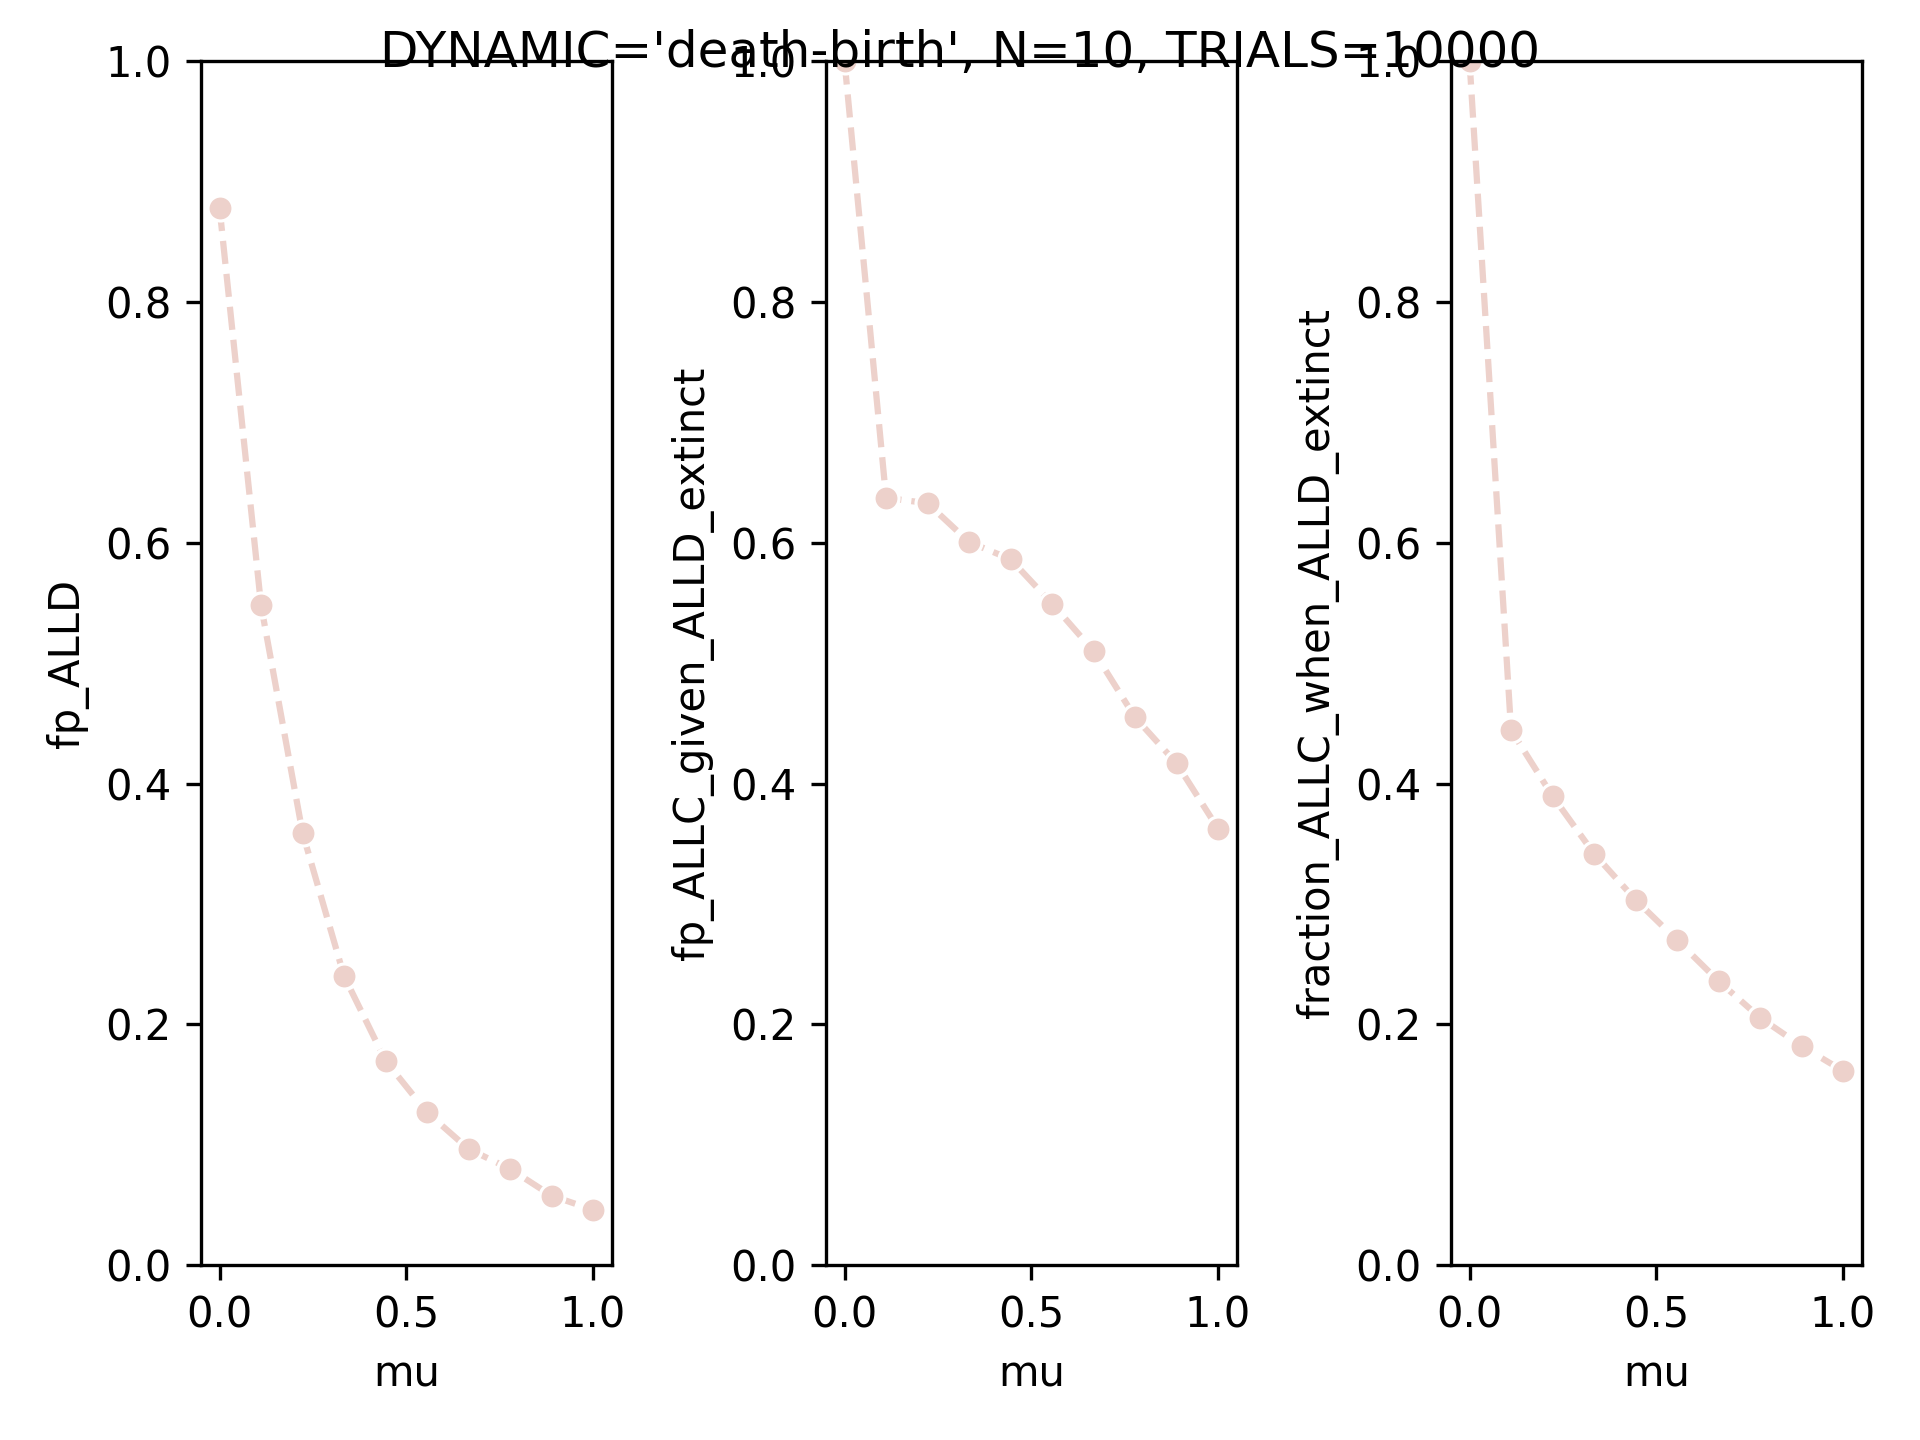
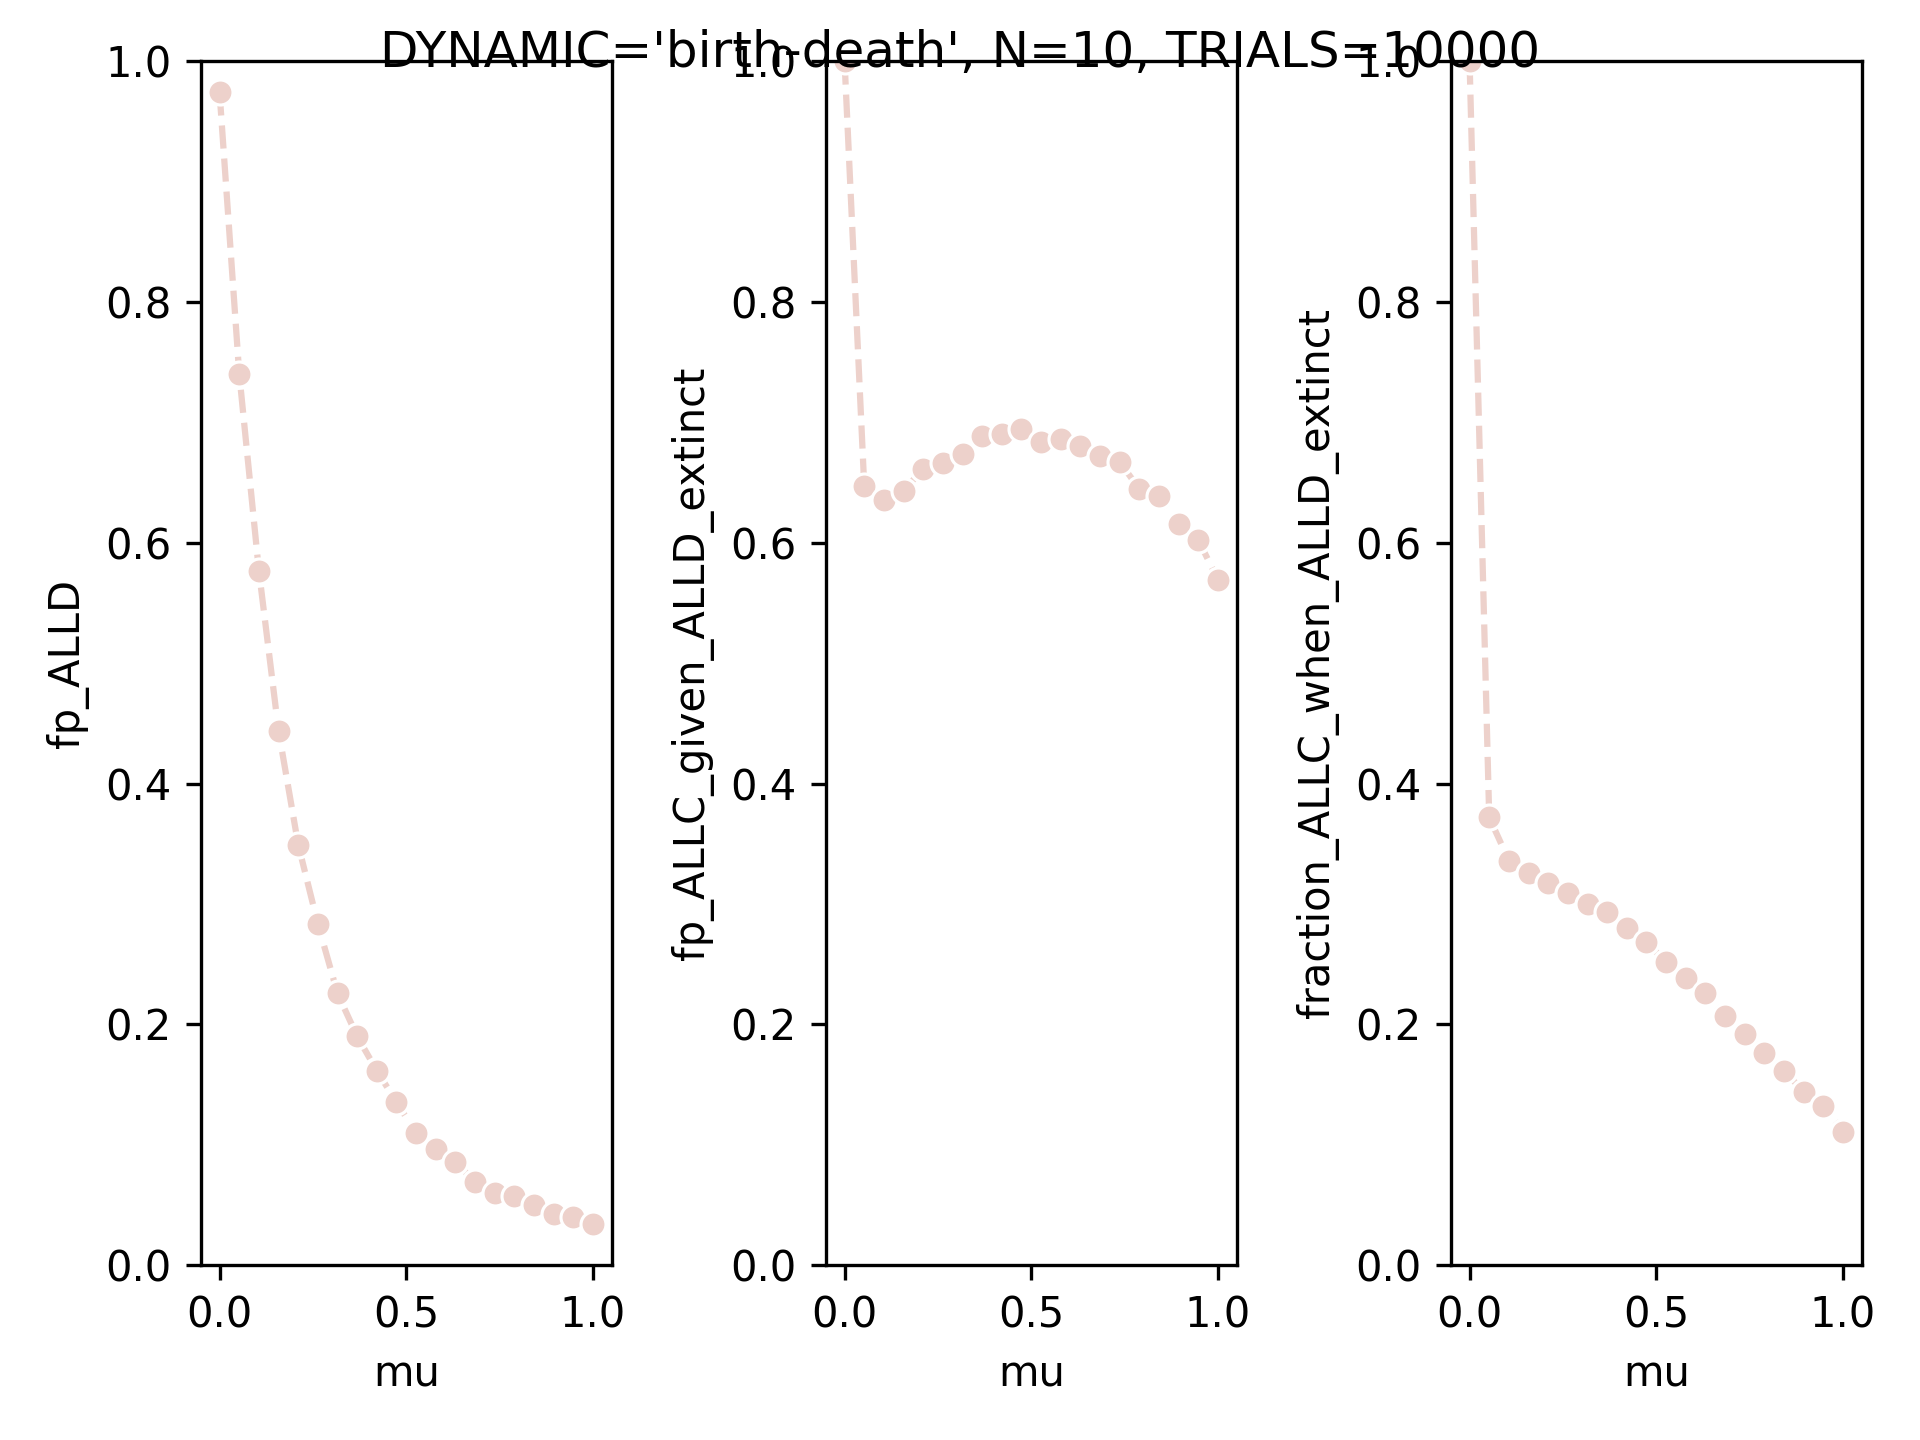
made changes

diff --git a/martins-dream.py b/martins-dream.py
@@ -193,17 +193,22 @@ def simulate(N: int, TRIALS: int, dynamics, mu: float, back_mu: float):
   fixated_ALLD = []
   fixated_ALLC_given_ALLD_extinct = []
   fractions_ALLC_when_ALLD_extinction = []
-  for _ in range(TRIALS):
+  for trial in range(TRIALS):
     nALLC = N-1
     nTFT = 0
     nALLD = 1
     tracked_ALLD_extinction = False
+    # print(f'trial #{trial}:')
     while all(nX < N for nX in (nALLC, nTFT, nALLD)):
+      # print(f'{nALLC=}, {nTFT=}, {nALLD=}')
+      # input()
       nALLCp, nTFTp = dynamics(N, nALLC, nTFT, M, mu=mu, back_mu=back_mu)
       nALLC, nTFT, nALLD = (nALLCp, nTFTp, N-(nALLCp + nTFTp))
       if nALLD == 0 and not tracked_ALLD_extinction:
         fractions_ALLC_when_ALLD_extinction.append(nALLC / N)
         tracked_ALLD_extinction = True
+    # print(f'{nALLC=}, {nTFT=}, {nALLD=}')
+    # input()
 
     fixated_ALLD.append(nALLD == N)
     if nALLD == 0:
@@ -226,29 +231,51 @@ DYNAMICS = {
 
 
 import itertools
+INTERVALS = 20
+TRIALS = 10000
+NUM_WORKERS = 8
+DYNAMIC = 'birth-death'
+N = 10
 
-def main():
-  INTERVALS = 10
-  TRIALS = 10000
-  NUM_WORKERS = 8
-  DYNAMIC = 'death-birth'
+def collect_data():
   data = []
-  TICKS = np.linspace(0, 1, INTERVALS, endpoint=True) 
+  TICKS = np.linspace(0, 1, INTERVALS, endpoint=True)
   TICK_LABELS = [('0' if tick == 0 else '1' if tick == 1 else '') for tick in TICKS]
-  for N in (10,):
-    mus = TICKS
-    # back_mus = TICKS
-    mutations = [(mu, 0) for mu in mus]
-    # mutations = list(itertools.product(mus, back_mus))
-    print(mutations)
+  mus = TICKS
+  # back_mus = TICKS
+  mutations = [(mu, 0) for mu in mus]
+  # mutations = list(itertools.product(mus, back_mus))
+  # print(mutations)
+  if NUM_WORKERS > 1:
     with Pool(NUM_WORKERS) as p:
       for datum in p.starmap(functools.partial(simulate, N, TRIALS, DYNAMICS[DYNAMIC]), mutations):
         data.append(datum)
+  else:
+    for datum in itertools.starmap(functools.partial(simulate, N, TRIALS, DYNAMICS[DYNAMIC]), mutations):
+      data.append(datum)
 
-  df = pd.DataFrame(data, columns=['N', 'mu', 'back_mu', 'fp_ALLD', 'fp_ALLC_given_ALLD_extinct', 'fraction_ALLC_when_ALLD_extinct'])
-  print(df)
-  fig, ax = plt.subplots(1,3)
-  for i, value in enumerate(('fp_ALLD', 'fp_ALLC_given_ALLD_extinct', 'fraction_ALLC_when_ALLD_extinct')):
+  return pd.DataFrame(data, columns=['N', 'mu', 'back_mu', 'fp_ALLD', 'fp_ALLC_given_ALLD_extinct', 'fraction_ALLC_when_ALLD_extinct'])
+
+def stack_plot(df: pd.DataFrame):
+  df = df[['fp_ALLD', 'fp_ALLC_given_ALLD_extinct', 'mu']]
+  df['fp_ALLC'] = df['fp_ALLC_given_ALLD_extinct'] * (1-df['fp_ALLD'])
+  df['fp_TFT'] = 1-(df['fp_ALLC'] + df['fp_ALLD'])
+  df = df.drop(columns=['fp_ALLC_given_ALLD_extinct'])
+  df = df[['mu', 'fp_ALLD', 'fp_TFT', 'fp_ALLC']]
+  df = df.rename(columns={'fp_ALLD': 'ALLD', 'fp_TFT': 'TFT', 'fp_ALLC': 'ALLC'})
+  ax = df.set_index('mu').plot(kind='area')
+  ax.set_ylabel(r'Fixation probability, $p$')
+  ax.set_xlabel(r'Mutation rate, $\mu$')
+  plt.legend(loc='upper right')
+  fig = ax.get_figure()
+  fig.suptitle(f"{DYNAMIC=}, {N=}, {TRIALS=}, {INTERVALS=}")
+  fig.savefig(get_plot_file_name(), dpi=300)
+  plt.show()
+
+def plot(df: pd.DataFrame): ...
+  # print(df)
+  # fig, ax = plt.subplots(1,3)
+  # for i, value in enumerate(('fp_ALLD', 'fp_ALLC_given_ALLD_extinct', 'fraction_ALLC_when_ALLD_extinct')):
     # sns.heatmap(
     #   data=df.pivot(index='back_mu', columns='mu', values=value).sort_index(ascending=False, level=0),
     #   ax=ax[i],
@@ -259,15 +286,40 @@ def main():
     #   cbar_kws={'label': value, "shrink": 0.25}
     # ) 
     # ax[i].axis('scaled')
-    sns.lineplot(df, ax=ax[i], x='mu', y=value, hue='N', linestyle='--', marker='o', legend=False)
-    ax[i].set_ylim((0, 1))
+    # sns.lineplot(df, ax=ax[i], x='mu', y=value, hue='N', linestyle='--', marker='o', legend=False)
+    # ax[i].set_ylim((0, 1))
   # sns.lineplot(df, ax=ax[2], x='mu', y='fraction_ALLC_when_ALLD_extinct', hue='N', linestyle='--', marker='o', legend=False)
   # for i in range(3):
 
-  plt.tight_layout()
-  fig.suptitle(f"{DYNAMIC=}, {N=}, {TRIALS=}")
-  fig.savefig(f'figs/saptarshi-custom.png', dpi=300)
-  plt.show()
+  # plt.tight_layout()
+  # fig.suptitle(f"{DYNAMIC=}, {N=}, {TRIALS=}")
+  # fig.savefig(f'figs/saptarshi-custom.png', dpi=300)
+  # plt.show()
+
+def get_file_name() -> str:
+  return f'DYNAMIC:{DYNAMIC}-N{N}-TRIALS{TRIALS}-INTERVALS{INTERVALS}'
+
+def get_plot_file_name() -> str:
+  return f'figs/{get_file_name()}.png'
+
+def get_data_file_name() -> str:
+  return f'data/{get_file_name()}.json'
+
+from pathlib import Path
+
+def load_data():
+  with Path(get_data_file_name()).open('r') as f:
+    return pd.read_json(f, orient='records')
+
+def store_data(df: pd.DataFrame):
+  with Path(get_data_file_name()).open('w') as f:
+    df.to_json(f, orient='records')
+
+USE_EXISTING_DATA = True
+def main():
+  df = (load_data if USE_EXISTING_DATA else collect_data)()
+  store_data(df)
+  stack_plot(df)
 
 if __name__ == '__main__':
   main()

diff --git a/stationary.py b/stationary.py
@@ -1,0 +1,32 @@
+import numpy as np
+from sympy import *
+
+
+def main():
+  mu1 = .1
+  mu2 = .3
+  N = 3
+  T = np.zeros(shape=(N+1,N+1))
+  for k in range(N+1):
+    acc = 0
+    if k-1 >= 0:
+      T[k,k-1] = k/N*mu2
+      acc += T[k,k-1]
+    if k+1 <= N:
+      T[k,k+1] = (1-k/N)*mu1
+      acc += T[k,k+1]
+    T[k,k] = 1-acc
+
+  # print(T)
+  u = np.ones(shape=(N+1,)) @ np.linalg.inv(np.identity(N+1) + np.ones(shape=(N+1,N+1)) - T)
+  # x = np.zeros(shape=(N+1,))
+  # x[1] = 1
+  # up = np.linalg.matrix_power(T, 100)@x
+  # up = up / np.sum(up)
+  print(u)
+  print(sum(k*u[k] for k in range(N+1)), mu2/(mu1+mu2))
+  # print(up)
+
+
+if __name__ == '__main__':
+  main()
